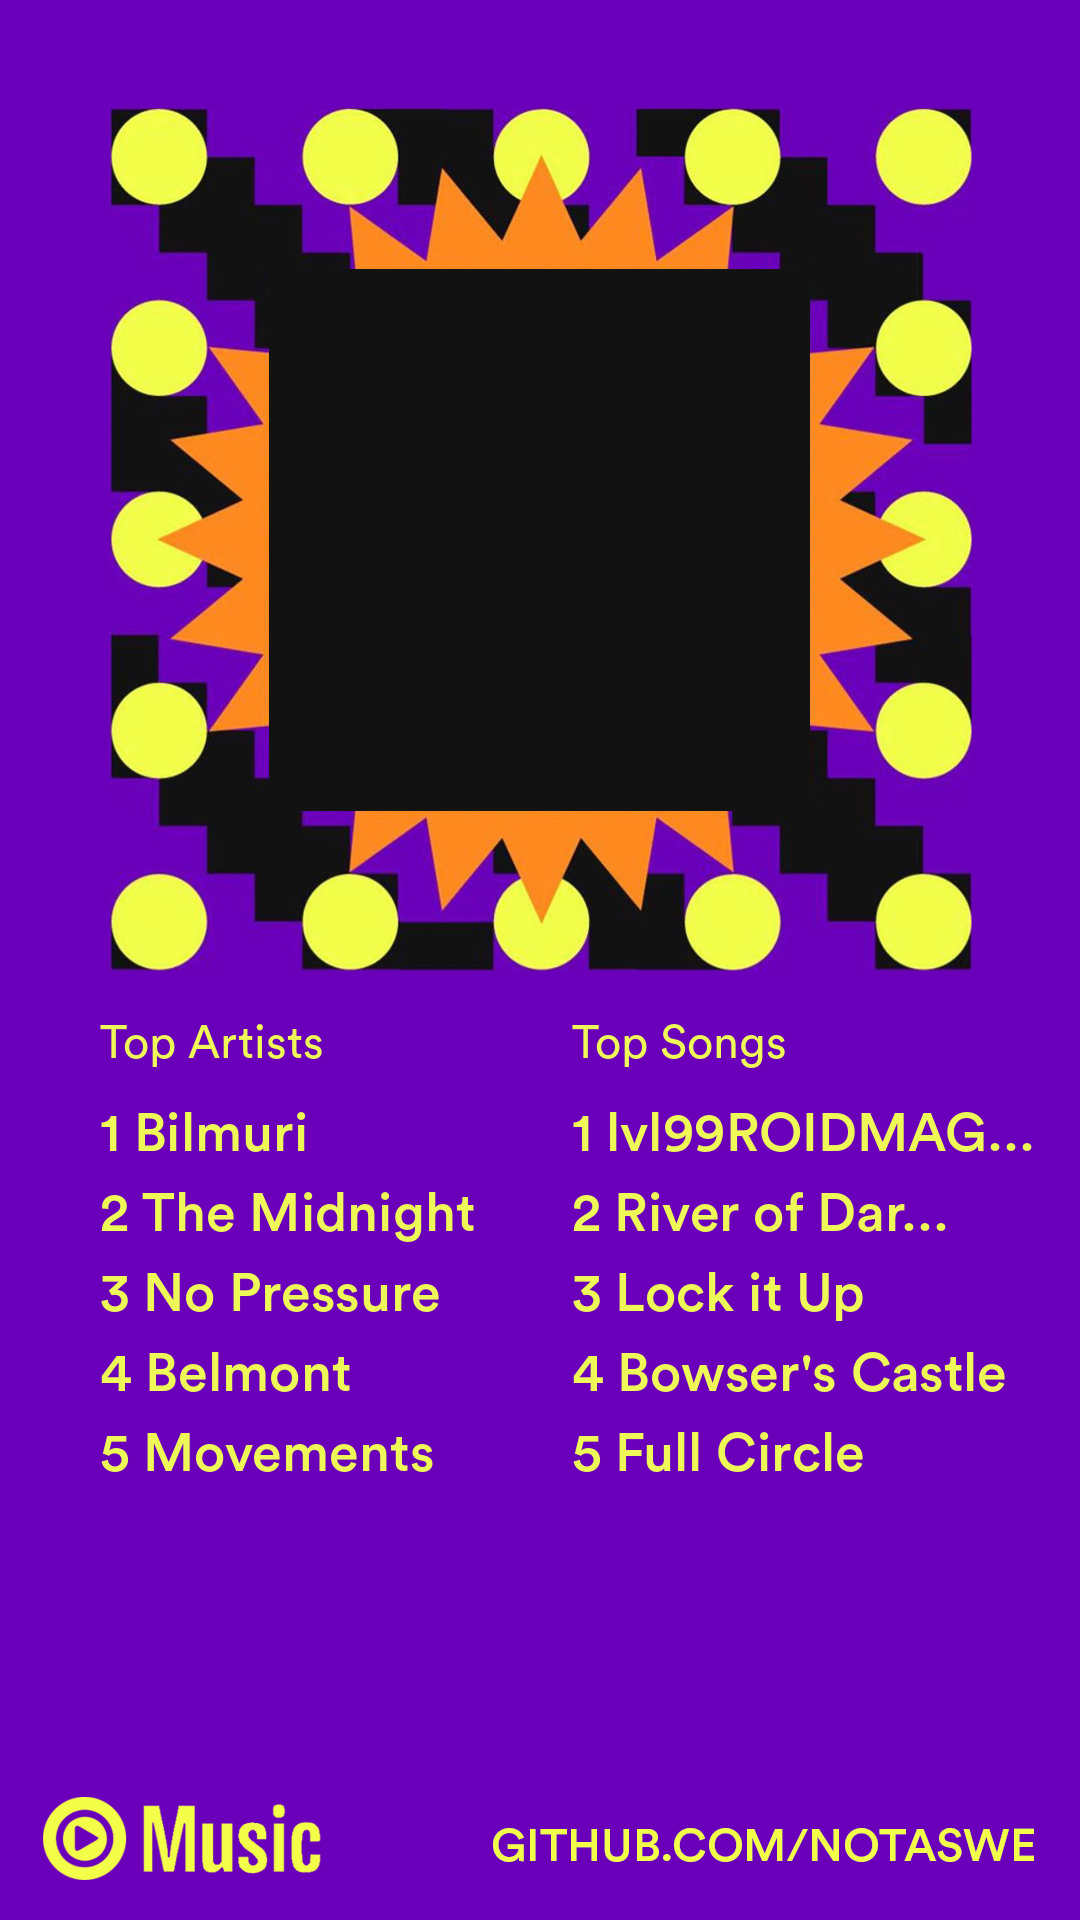
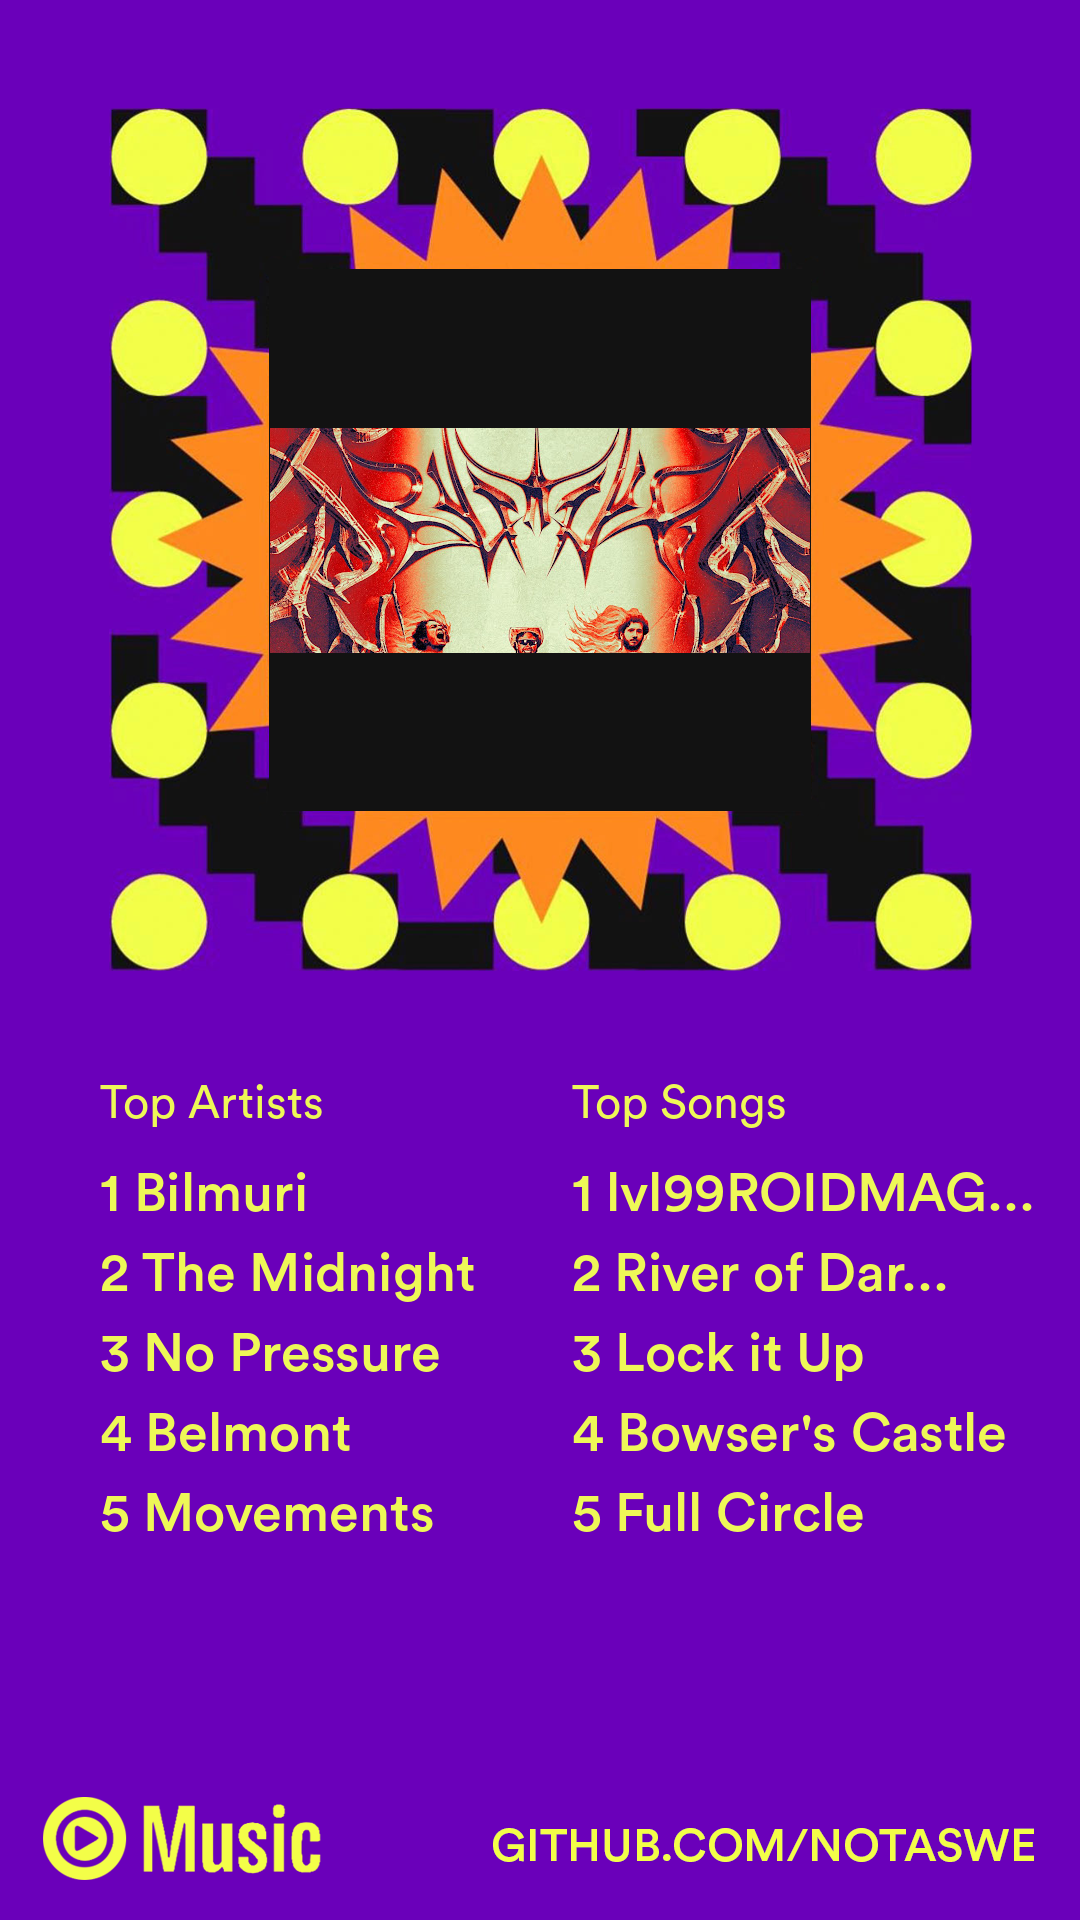
Added ytmusicapi artist thumbnail functionality

Changed region(s): [[0.5194, 0.5312, 0.9472, 0.8125], [0.0917, 0.5312, 0.4583, 0.8125], [0.2444, 0.2188, 0.7639, 0.3438]]

diff --git a/pywrapped.py b/pywrapped.py
@@ -1,8 +1,10 @@
 from datetime import date
 from datetime import timedelta
+from io import BytesIO
 from PIL import Image, ImageDraw, ImageFont
 from settings import *
-import json, random, sys, time
+from ytmusicapi import YTMusic
+import json, random, requests, sys, time
 
 try:
     filePath = sys.argv[1]  
@@ -10,7 +12,7 @@ except:
     print("Usage: python3 pywrapped.py takeout/yourname.json")
     quit()
 
-# Initial config; you need to download the below fonts to font/
+# Initial config
 try:
     wrFont = ImageFont.truetype("font/CircularStd-Book.otf", 46)
     wrFontBold = ImageFont.truetype("font/CircularStd-Medium.otf", 54)
@@ -20,7 +22,8 @@ except:
 bg = Image.open("img/bg.png")
 imWidth = list(bg.size)[0]
 imHeight = list(bg.size)[1]
-printCoords = (100, (imHeight / 2) + 60)
+printCoords = (100, (imHeight / 2) + 120)
+artistImgCoords = (270, 270)
 
 # Parse history and keep track of plays per artist
 with open(filePath) as ytHistory:
@@ -28,7 +31,7 @@ with open(filePath) as ytHistory:
 
 mostListenedTo = {}
 
-# Identify top five most listened to artists
+# Need to keep track of plays per song, likely in the value of mostListenedTo dictionary (store as list?)
 for item in jsonHist:
     if item['header'] == 'YouTube Music':
         metadata = item['subtitles']
@@ -42,6 +45,7 @@ for item in jsonHist:
         elif artist not in filteredArtists and artist not in mostListenedTo:
             mostListenedTo[artist] = 1
 
+# Get top 5 artists and add to top five list
 try:
     topfive = {}
     for k, _v in sorted(mostListenedTo.items(), key=lambda x: x[1], reverse=True)[:5]:
@@ -51,6 +55,18 @@ try:
 except:
     print("This script assumes you have at least 5 different artists in your YouTube Music history!")
     quit()
+
+# Get the YouTube ChannelID of top artist
+topChannelId = None
+for item in jsonHist:
+    if item['header'] == 'YouTube Music':
+        metadata = item['subtitles']
+        metadata = metadata[0]
+        artist = metadata['name']
+        artist = artist.split(' - Topic')[0]
+        if artist == list(topfive.keys())[0]:
+            topChannelId = metadata['url'].split("/")[-1]
+            break
 
 # Inefficient but the values in topfive need to be filled with songs so...iterate through json again
 for item in jsonHist:
@@ -87,9 +103,17 @@ def draw_songs(printCoords):
         draw_text.text(printCoords, f"{idx + 1} {toPrint}", font=wrFontBold, fill=(238, 248, 87))
         printCoords = (printCoords[0], printCoords[1] + 80)
 
+# Function to hopefully find and download an artist thumbnail using ytmusicapi
+def get_thumbnail(artistChannelString):
+    yt = YTMusic('headers.json')
+    artist_results = yt.get_artist(artistChannelString)
+    thumbs = artist_results['thumbnails']
+    response = requests.get(thumbs[0]['url'])
+    return BytesIO(response.content)
+
 # Draw Top Artists column
 draw_text = ImageDraw.Draw(bg)
-artistColCoords = (list(wrFont.getsize("Top Artists"))[0], list(wrFont.getsize("Top Artists"))[1])# 
+artistColCoords = (list(wrFont.getsize("Top Artists"))[0], list(wrFont.getsize("Top Artists"))[1])# list(supportFontLg.getsize(firstMain))[0]
 draw_text.text(printCoords, "Top Artists", font=wrFont, fill=(238, 248, 87))
 
 # Update printCoords to account for size of Top Artists text block
@@ -98,14 +122,23 @@ printCoords = (printCoords[0], printCoords[1] + artistColCoords[1] + 40)
 draw_artists(printCoords)
 
 # Update printCoords to account for Top Songs starting position
-printCoords = ((imWidth / 2) + 32, (imHeight / 2) + 60)
-songColCoords = (list(wrFont.getsize("Top Songs"))[0], list(wrFont.getsize("Top Artists"))[1])# 
+printCoords = ((imWidth / 2) + 32, (imHeight / 2) + 120)
+songColCoords = (list(wrFont.getsize("Top Songs"))[0], list(wrFont.getsize("Top Artists"))[1])
 draw_text.text(printCoords, "Top Songs", font=wrFont, fill=(238, 248, 87))
 
 # Update printCoords to account for size of Top Songs text block
 printCoords = (printCoords[0], printCoords[1] + artistColCoords[1] + 40)
 
-# Placeholder until draw_songs works
 draw_songs(printCoords)
+
+# Get and draw thumbnail in blank 540x540 box
+if topChannelId:
+    try:
+        artistPhoto = get_thumbnail(topChannelId)
+        loadedPhoto = Image.open(artistPhoto)
+        artistImgCoords = (artistImgCoords[0], 540 - int(loadedPhoto.size[1] / 2))
+        bg.paste(loadedPhoto, artistImgCoords)
+    except:
+        pass
 
 bg.save(f"img/output_{int(time.time())}.png")

diff --git a/testheaders.py b/testheaders.py
@@ -1,0 +1,11 @@
+import json
+
+# Tests ./headers.json; read the docs
+# https://ytmusicapi.readthedocs.io/en/stable/setup.html
+
+from ytmusicapi import YTMusic
+yt = YTMusic('headers.json')
+search_results = yt.search('The Midnight Nocturnal')
+for item in search_results:
+	if 'duration' in item.keys() and item['duration']:
+		print(json.dumps(item))

diff --git a/README.md b/README.md
@@ -11,6 +11,8 @@ I'm stubborn and like writing Python
 
 ## Installation/configuration
 
+0. Install and configure [ytmusicapi](https://github.com/sigma67/ytmusicapi)
+    1. Pay special attention to the setup; you __need headers.json__ in order to download artist photos!
 1. Export the json from [Google Takeout](https://takeout.google.com) - you ONLY need YouTube/YouTube music!
     1. Save the file as __yourname__.json
     ![Google Takeout 01](/img/takeout01.JPG "This is a sample output file")
